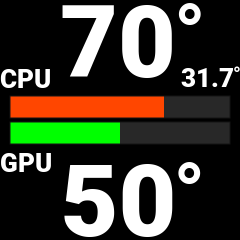
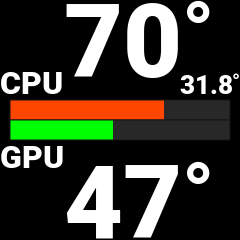
Changelog: document layout, Doxygen and code style improvements (0.2025.07.17.2000)

diff --git a/src/display.c b/src/display.c
@@ -147,7 +147,95 @@ cleanup:
 }
 
 /**
+ * Draw temperature displays (large numbers for CPU, GPU, coolant)
+ *
+ * Draws the temperature values for CPU, GPU, and coolant in their respective boxes
+ * according to the 240x240px layout. CPU and GPU temperatures are centered in their boxes,
+ * coolant temperature is right-aligned and vertically centered.
+ *
+ * @param cr Cairo drawing context
+ * @param data Pointer to sensor data (temperatures)
+ * @param mode Display mode (unused)
+ *
+ * Example:
+ * @code
+ * draw_temperature_displays(cr, &sensor_data, DISPLAY_MODE_DEF);
+ * @endcode
+ */
+static void draw_temperature_displays(cairo_t *cr, const sensor_data_t *data, display_mode_t mode __attribute__((unused))) {
+    // Box positions for 240x240 layout, no gap
+    const int cpu_box_x = BOX_WIDTH; // mittlere Box
+    const int cpu_box_y = 0;
+    const int coolant_box_x = 2 * BOX_WIDTH; // rechte Box
+    const int coolant_box_y = 0;
+    const int gpu_box_x = BOX_WIDTH; // mittlere Box unten
+    const int gpu_box_y = 2 * BOX_HEIGHT;
+    
+    // Set font and size DejaVu Sans, Roboto Black, Noto Sans Black, Liberation Sans
+    cairo_select_font_face(cr, "Roboto Black", CAIRO_FONT_SLANT_NORMAL, CAIRO_FONT_WEIGHT_BOLD);
+    cairo_set_source_rgb(cr, 1, 1, 1);
+    
+    char temp_str[8];
+    char cool_str[16];
+    cairo_text_extents_t ext, deg_ext, cool_ext, deg_ext_cool, deg_ext_gpu;
+
+    // CPU temperature display
+    snprintf(temp_str, sizeof(temp_str), "%d", (int)data->cpu_temp);
+    cairo_set_font_size(cr, FONT_SIZE_LARGE);
+    cairo_text_extents(cr, temp_str, &ext);
+    const double cpu_temp_x = cpu_box_x + (BOX_WIDTH - ext.width) / 2;
+    const double cpu_temp_y = cpu_box_y + ext.height + 2;
+    cairo_move_to(cr, cpu_temp_x, cpu_temp_y);
+    cairo_show_text(cr, temp_str);
+    
+    // Degree symbol for CPU
+    cairo_set_font_size(cr, FONT_SIZE_DEGREE);
+    cairo_text_extents(cr, "\xC2\xB0", &deg_ext); // UTF-8 degree symbol
+    cairo_move_to(cr, cpu_temp_x + ext.width + 6, cpu_temp_y - deg_ext.height + 6);
+    cairo_show_text(cr, "\xC2\xB0"); // UTF-8 degree symbol
+
+    // Coolant temperature display (only if CPU <= 99°C)
+    if (data->cpu_temp <= 99.0f && data->coolant_temp > 0.0f) {
+        snprintf(cool_str, sizeof(cool_str), "%.1f", data->coolant_temp);
+        cairo_set_font_size(cr, FONT_SIZE_COOLANT);
+        cairo_text_extents(cr, cool_str, &cool_ext);
+        // Position: ganz rechts in der Box
+        const double cool_x = coolant_box_x + BOX_WIDTH - cool_ext.width - 8; // px padding
+        const double cool_y = coolant_box_y + BOX_HEIGHT + 14; // px padding
+        cairo_move_to(cr, cool_x, cool_y);
+        cairo_show_text(cr, cool_str);
+
+        // Degree symbol for coolant
+        cairo_set_font_size(cr, FONT_SIZE_DEGREE * 0.25);
+        cairo_text_extents(cr, "\xC2\xB0", &deg_ext_cool); // UTF-8 degree symbol
+        cairo_move_to(cr, cool_x + cool_ext.width, cool_y - deg_ext_cool.height);
+        cairo_show_text(cr, "\xC2\xB0"); // UTF-8 degree symbol
+    }
+
+    // GPU temperature display
+    snprintf(temp_str, sizeof(temp_str), "%d", (int)data->gpu_temp);
+    cairo_set_font_size(cr, FONT_SIZE_LARGE);
+    cairo_text_extents(cr, temp_str, &ext);
+    const double gpu_temp_x = gpu_box_x + (BOX_WIDTH - ext.width) / 2;
+    const double gpu_temp_y = gpu_box_y + BOX_HEIGHT - 2;
+    cairo_move_to(cr, gpu_temp_x, gpu_temp_y);
+    cairo_show_text(cr, temp_str);
+    
+    // Degree symbol for GPU
+    cairo_set_font_size(cr, FONT_SIZE_DEGREE);
+    cairo_text_extents(cr, "\xC2\xB0", &deg_ext_gpu); // UTF-8 degree symbol
+    cairo_move_to(cr, gpu_temp_x + ext.width + 6, gpu_temp_y - deg_ext_gpu.height + 6);
+    cairo_show_text(cr, "\xC2\xB0"); // UTF-8 degree symbol
+}
+
+/**
  * Draw temperature bars (CPU and GPU)
+ *
+ * Draws horizontal bars representing CPU and GPU temperatures, with color gradient
+ * according to temperature value.
+ *
+ * @param cr Cairo drawing context
+ * @param data Pointer to sensor data (temperatures)
  */
 static void draw_temperature_bars(cairo_t *cr, const sensor_data_t *data) {
     // Calculate horizontal position (centered)
@@ -202,6 +290,11 @@ static void draw_temperature_bars(cairo_t *cr, const sensor_data_t *data) {
 
 /**
  * Draw CPU/GPU labels depending on mode
+ *
+ * Draws text labels for CPU and GPU, with different style depending on display mode.
+ *
+ * @param cr Cairo drawing context
+ * @param mode Display mode
  */
 static void draw_labels(cairo_t *cr, display_mode_t mode) {
     const int cpu_bar_y = (DISPLAY_HEIGHT - (2 * BAR_HEIGHT + BAR_GAP)) / 2;
@@ -212,13 +305,13 @@ static void draw_labels(cairo_t *cr, display_mode_t mode) {
     
     if (mode == DISPLAY_MODE_DEF) {
         // Special labels for def mode (white, larger, side-aligned)
-        cairo_set_font_size(cr, 26);
+        cairo_set_font_size(cr, 32);
         cairo_set_source_rgb(cr, 1, 1, 1);
         // Keine text_extents nötig, da Position fix ist
-        cairo_move_to(cr, 0, 88); // ganz links oben
+        cairo_move_to(cr, 0, 94); // ganz links oben
         cairo_show_text(cr, "CPU");
 
-        cairo_move_to(cr, 0, 173); // ganz links unten
+        cairo_move_to(cr, 0, 168); // ganz links unten
         cairo_show_text(cr, "GPU");
     } else {
         // Labels for modes 1, 2, 3 (black, aligned with bars)
@@ -237,75 +330,12 @@ static void draw_labels(cairo_t *cr, display_mode_t mode) {
 }
 
 /**
- * Draw temperature displays (large numbers)
- */
-static void draw_temperature_displays(cairo_t *cr, const sensor_data_t *data, display_mode_t mode __attribute__((unused))) {
-    const int cpu_box_x = 2 + BOX_WIDTH + BOX_GAP;
-    const int cpu_box_y = 2;
-    const int coolant_box_x = 2 + 2 * (BOX_WIDTH + BOX_GAP);
-    const int coolant_box_y = 2;
-    const int gpu_box_x = 2 + BOX_WIDTH + BOX_GAP;
-    const int gpu_box_y = DISPLAY_HEIGHT - BOX_HEIGHT - 2;
-    
-    // Set font and size DejaVu Sans, Roboto Black, Noto Sans Black, Liberation Sans
-    cairo_select_font_face(cr, "Roboto Black", CAIRO_FONT_SLANT_NORMAL, CAIRO_FONT_WEIGHT_BOLD);
-    cairo_set_source_rgb(cr, 1, 1, 1);
-    
-    char temp_str[8];
-    char cool_str[16];
-    cairo_text_extents_t ext, deg_ext, cool_ext, deg_ext_cool, deg_ext_gpu;
-
-    // CPU temperature display
-    snprintf(temp_str, sizeof(temp_str), "%d", (int)data->cpu_temp);
-    cairo_set_font_size(cr, FONT_SIZE_LARGE);
-    cairo_text_extents(cr, temp_str, &ext);
-    const double cpu_temp_x = cpu_box_x + (BOX_WIDTH - ext.width) / 2;
-    const double cpu_temp_y = cpu_box_y + ext.height + 2;
-    cairo_move_to(cr, cpu_temp_x, cpu_temp_y);
-    cairo_show_text(cr, temp_str);
-    
-    // Degree symbol for CPU
-    cairo_set_font_size(cr, FONT_SIZE_DEGREE);
-    cairo_text_extents(cr, "\xC2\xB0", &deg_ext); // UTF-8 degree symbol
-    cairo_move_to(cr, cpu_temp_x + ext.width + 4, cpu_temp_y - deg_ext.height + 6);
-    cairo_show_text(cr, "\xC2\xB0"); // UTF-8 degree symbol
-
-    // Coolant temperature display (only if CPU <= 99°C)
-    if (data->cpu_temp <= 99.0f && data->coolant_temp > 0.0f) {
-        snprintf(cool_str, sizeof(cool_str), "%.1f", data->coolant_temp);
-        cairo_set_font_size(cr, FONT_SIZE_COOLANT);
-        cairo_text_extents(cr, cool_str, &cool_ext);
-        // Position: ganz rechts in der Box
-        const double cool_x = coolant_box_x + BOX_WIDTH - cool_ext.width + 5; // px padding
-        const double cool_y = coolant_box_y + BOX_HEIGHT + 16; // px padding
-        cairo_move_to(cr, cool_x, cool_y);
-        cairo_show_text(cr, cool_str);
-
-        // Degree symbol for coolant
-        cairo_set_font_size(cr, FONT_SIZE_DEGREE * 0.25);
-        cairo_text_extents(cr, "\xC2\xB0", &deg_ext_cool); // UTF-8 degree symbol
-        cairo_move_to(cr, cool_x + cool_ext.width, cool_y - deg_ext_cool.height);
-        cairo_show_text(cr, "\xC2\xB0"); // UTF-8 degree symbol
-    }
-
-    // GPU temperature display
-    snprintf(temp_str, sizeof(temp_str), "%d", (int)data->gpu_temp);
-    cairo_set_font_size(cr, FONT_SIZE_LARGE);
-    cairo_text_extents(cr, temp_str, &ext);
-    const double gpu_temp_x = gpu_box_x + (BOX_WIDTH - ext.width) / 2;
-    const double gpu_temp_y = gpu_box_y + BOX_HEIGHT - 2;
-    cairo_move_to(cr, gpu_temp_x, gpu_temp_y);
-    cairo_show_text(cr, temp_str);
-    
-    // Degree symbol for GPU
-    cairo_set_font_size(cr, FONT_SIZE_DEGREE);
-    cairo_text_extents(cr, "\xC2\xB0", &deg_ext_gpu); // UTF-8 degree symbol
-    cairo_move_to(cr, gpu_temp_x + ext.width + 4, gpu_temp_y - deg_ext_gpu.height + 6);
-    cairo_show_text(cr, "\xC2\xB0"); // UTF-8 degree symbol
-}
-
-/**
- * Draw vertical bars for mode 1
+ * Draw vertical bars for mode 1 (CPU, RAM, GPU, GPU RAM usage)
+ *
+ * Draws four vertical bars representing CPU usage, RAM usage, GPU usage, and GPU RAM usage.
+ *
+ * @param cr Cairo drawing context
+ * @param data Pointer to sensor data (usage values)
  */
 static void draw_mode_1_vertical_bars(cairo_t *cr, const sensor_data_t *data) {
     // CPU usage bar (blue)
@@ -339,7 +369,12 @@ static void draw_mode_1_vertical_bars(cairo_t *cr, const sensor_data_t *data) {
 }
 
 /**
- * Draw circular diagrams for mode 2
+ * Draw circular diagrams for mode 2 (CPU/RAM and GPU/GPU RAM usage)
+ *
+ * Draws two sets of concentric circles representing CPU/RAM and GPU/GPU RAM usage.
+ *
+ * @param cr Cairo drawing context
+ * @param data Pointer to sensor data (usage values)
  */
 static void draw_mode_2_circles(cairo_t *cr, const sensor_data_t *data) {
     const double cy_bot = DISPLAY_HEIGHT - CIRCLE_CENTER_Y_TOP;
@@ -387,7 +422,12 @@ static void draw_mode_2_circles(cairo_t *cr, const sensor_data_t *data) {
 }
 
 /**
- * Draw horizontal bars for mode 3
+ * Draw horizontal bars for mode 3 (CPU, RAM, GPU, GPU RAM usage)
+ *
+ * Draws four horizontal bars representing CPU usage, RAM usage, GPU usage, and GPU RAM usage.
+ *
+ * @param cr Cairo drawing context
+ * @param data Pointer to sensor data (usage values)
  */
 static void draw_mode_3_horizontal_bars(cairo_t *cr, const sensor_data_t *data) {
     const int bar_x = (DISPLAY_WIDTH - BAR_WIDTH) / 2;
@@ -423,6 +463,11 @@ static void draw_mode_3_horizontal_bars(cairo_t *cr, const sensor_data_t *data) 
 
 /**
  * Check if display update is needed (change detection)
+ *
+ * Compares current sensor data with last drawn values and determines if a redraw is necessary.
+ *
+ * @param data Pointer to current sensor data
+ * @return 1 if update is needed, 0 otherwise
  */
 static int should_update_display(const sensor_data_t *data) {
     static sensor_data_t last_data = {.cpu_temp = -1.0f, .gpu_temp = -1.0f, .coolant_temp = -1.0f, 
@@ -453,8 +498,16 @@ static int should_update_display(const sensor_data_t *data) {
 
 /**
  * Simplified all-in-one function - collects sensor data and renders display
- * 
+ *
+ * Reads all relevant sensor data (temperatures, usage) and renders the display image
+ * for the given mode. Also uploads the image to the device if available.
+ *
  * @param mode Display mode
+ *
+ * Example:
+ * @code
+ * draw_combined_image(DISPLAY_MODE_1);
+ * @endcode
  */
 void draw_combined_image(display_mode_t mode) {
     sensor_data_t sensor_data = {0};

diff --git a/include/config.h b/include/config.h
@@ -21,18 +21,18 @@
 #define TEMP_THRESHOLD_RED 75.0f // 75°C - Hot Orange threshold (above this = Red)
 
 // Layout Constants
-#define BOX_WIDTH 70 // 240 / 3.42857142857
-#define BOX_HEIGHT ((DISPLAY_HEIGHT - 4 * BOX_GAP) / 3) // 3 boxes, 2 gaps
-#define BOX_GAP 8 // spacing between boxes
+#define BOX_WIDTH 80 // 240 / 3
+#define BOX_HEIGHT 80 // 240 / 3
+#define BOX_GAP 0 // no gap for perfect 3x80 grid
 #define BAR_WIDTH 220 // 240 - (BOX_WIDTH * 3) - (BOX_GAP * 2) - 10 (for border)
-#define BAR_HEIGHT 22 // height of bars
-#define BAR_GAP 4 // spacing between bars
+#define BAR_HEIGHT 20 // height of bars
+#define BAR_GAP 0 // spacing between bars
 
 // Font Sizes
-#define FONT_SIZE_LARGE 100.0  // BOX_HEIGHT * 1.50
-#define FONT_SIZE_DEGREE 80.0 // FONT_SIZE_LARGE * 0.75
+#define FONT_SIZE_LARGE 102.0  // BOX_HEIGHT * 1.50
+#define FONT_SIZE_DEGREE 82.0 // FONT_SIZE_LARGE * 0.75
 #define FONT_SIZE_COOLANT 26.0 // FONT_SIZE_LARGE * 0.30
-#define FONT_SIZE_LABELS 26.0 // FONT_SIZE_LARGE * 0.25
+#define FONT_SIZE_LABELS 32.0 // FONT_SIZE_LARGE * 0.25
 
 // LCD Display Settings
 #define LCD_BRIGHTNESS 80 // Default LCD brightness (0-100)
